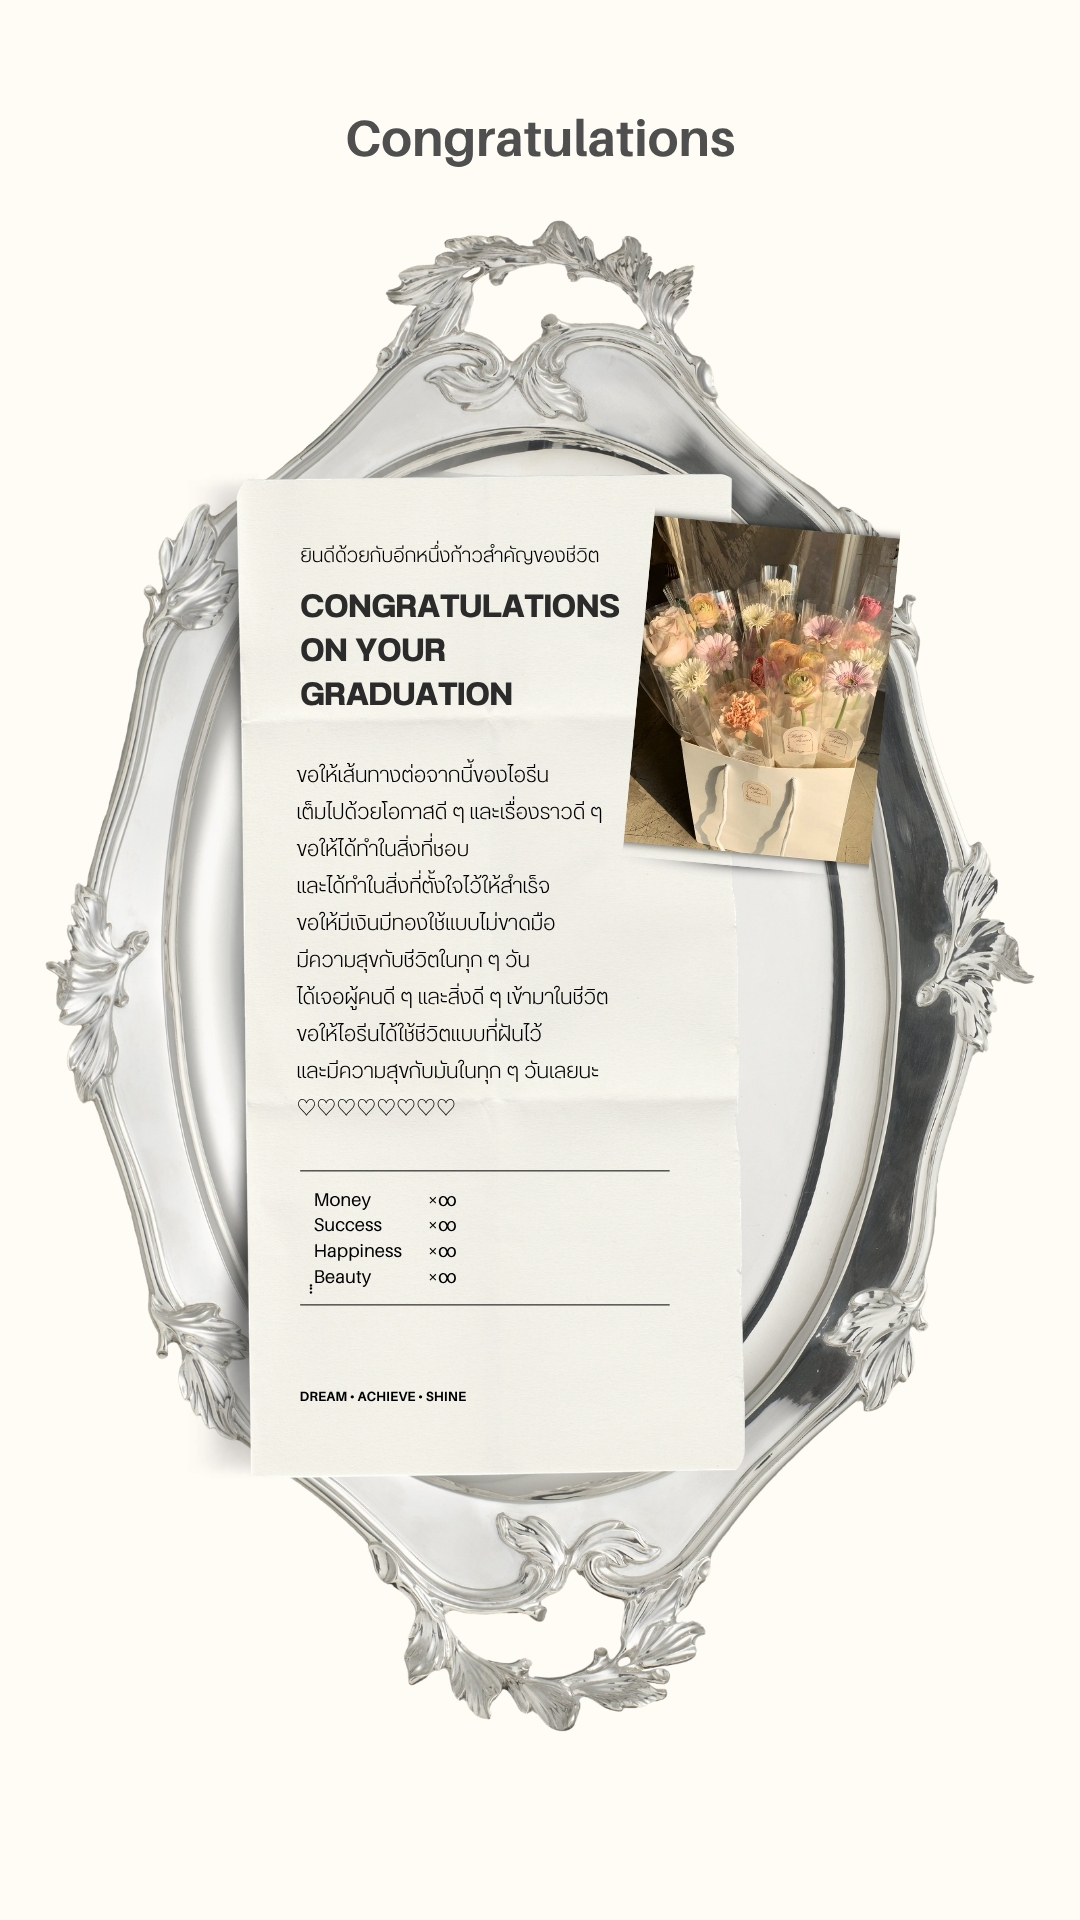
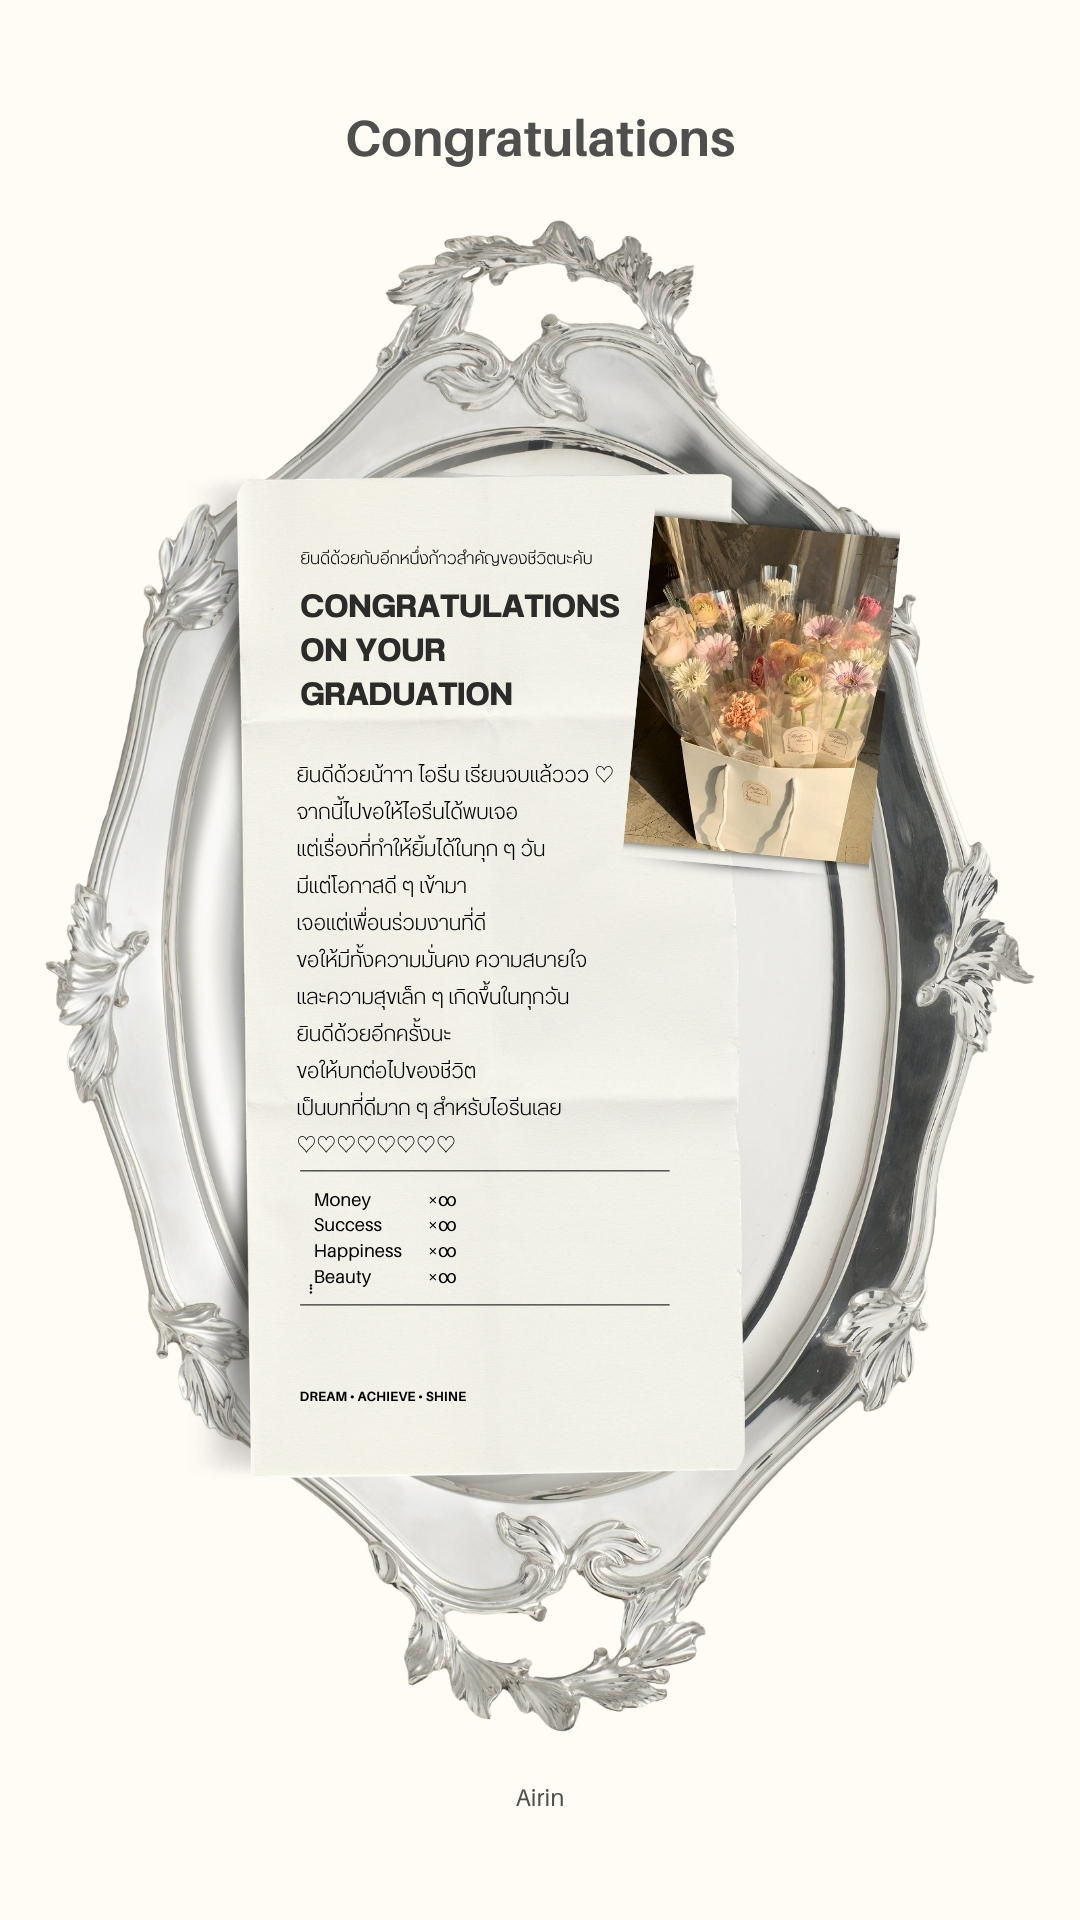
Fix Airin assets and add script cache buster

Changed region(s): [[0.275, 0.375, 0.55, 0.5938], [0.275, 0.2812, 0.55, 0.3125]]

diff --git a/script.js b/script.js
@@ -67,7 +67,7 @@ class MobileCelebrationExperience {
     if (this.friendId === 'airin' || this.friendId === 'irene') {
       const folder = this.friendId === 'airin' ? 'airin' : 'irene';
       const airinCardSrc = `${base}assets/${folder}/AirinCard.jpg${cacheBuster}`;
-      const airinPersonSrc = `${base}assets/${folder}/${this.friendId === 'airin' ? 'airin.png' : 'irene.png'}${cacheBuster}`;
+      const airinPersonSrc = `${base}assets/${folder}/irene.png${cacheBuster}`;
 
       if (this.cardImg) {
         this.cardImg.src = airinCardSrc;

diff --git a/index.html b/index.html
@@ -45,7 +45,7 @@
     </div>
   </div>
 
-  <script src="script.js"></script>
+  <script src="script.js?v=20261006_airin_v3"></script>
 </body>
 
 </html>
